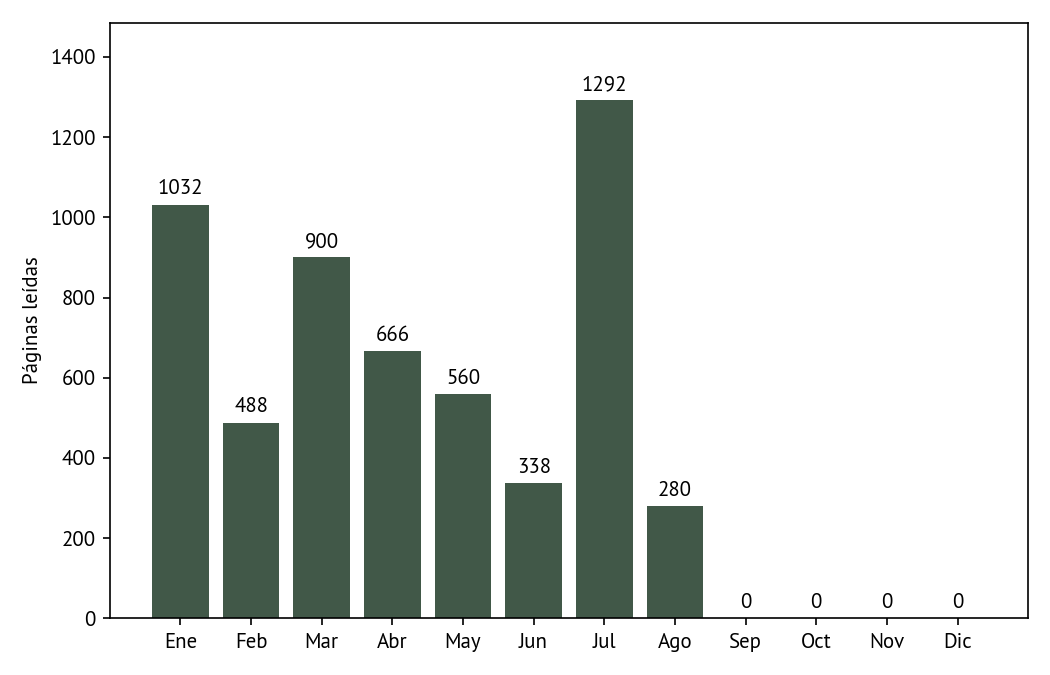
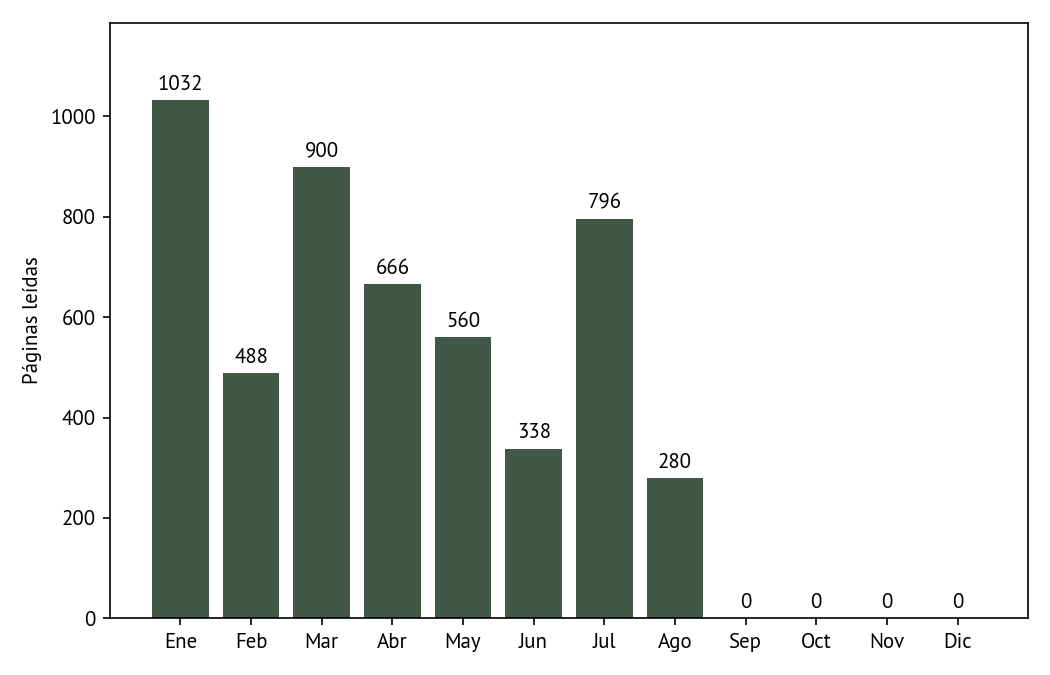
.

diff --git a/content/estadisticas/index.md b/content/estadisticas/index.md
@@ -6,11 +6,11 @@ summary: Estadísticas de lectura por año.
 ## Resumen histórico
 
 <div style="border:1px solid rgba(128,128,128,0.35);border-radius:12px;padding:1.25rem 1.5rem;margin:1rem 0;background:rgba(128,128,128,0.06);">
-<h3 style="margin-top:0;">Libros</h3><div style="display:flex;gap:2.5rem;flex-wrap:wrap;"><div><div style="opacity:0.6;">Total páginas leídas</div><div style="font-size:2rem;font-weight:800;line-height:1.1;">193278</div></div><div><div style="opacity:0.6;">Número de libros</div><div style="font-size:2rem;font-weight:800;line-height:1.1;">650</div></div></div>
+<h3 style="margin-top:0;">Libros</h3><div style="display:flex;gap:2.5rem;flex-wrap:wrap;"><div><div style="opacity:0.6;">Total páginas leídas</div><div style="font-size:2rem;font-weight:800;line-height:1.1;">192782</div></div><div><div style="opacity:0.6;">Número de libros</div><div style="font-size:2rem;font-weight:800;line-height:1.1;">649</div></div></div>
 </div>
 
 <div style="border:1px solid rgba(128,128,128,0.35);border-radius:12px;padding:1.25rem 1.5rem;margin:1rem 0;background:rgba(128,128,128,0.06);">
-<h3 style="margin-top:0;">Cómics/Manga</h3><div style="display:flex;gap:2.5rem;flex-wrap:wrap;"><div><div style="opacity:0.6;">Total páginas leídas</div><div style="font-size:2rem;font-weight:800;line-height:1.1;">53921</div></div><div><div style="opacity:0.6;">Número de cómics/manga</div><div style="font-size:2rem;font-weight:800;line-height:1.1;">264</div></div></div>
+<h3 style="margin-top:0;">Cómics/Manga</h3><div style="display:flex;gap:2.5rem;flex-wrap:wrap;"><div><div style="opacity:0.6;">Total páginas leídas</div><div style="font-size:2rem;font-weight:800;line-height:1.1;">54417</div></div><div><div style="opacity:0.6;">Número de cómics/manga</div><div style="font-size:2rem;font-weight:800;line-height:1.1;">265</div></div></div>
 </div>
 
 <div style="border:1px solid rgba(128,128,128,0.35);border-radius:12px;padding:1.25rem 1.5rem;margin:1rem 0;background:rgba(128,128,128,0.06);">
@@ -56,7 +56,7 @@ summary: Estadísticas de lectura por año.
 </div>
 
 <div style="border:1px solid rgba(128,128,128,0.35);border-radius:12px;padding:1.25rem 1.5rem;margin:1rem 0;background:rgba(128,128,128,0.06);">
-<h3 style="margin-top:0;">Longitud media</h3><div style="display:flex;gap:2.5rem;flex-wrap:wrap;"><div><div style="opacity:0.6;">Libros</div><div style="font-size:2rem;font-weight:800;line-height:1.1;">297</div><div style="font-weight:700;">páginas de media</div></div><div><div style="opacity:0.6;">Cómics/Manga</div><div style="font-size:2rem;font-weight:800;line-height:1.1;">204</div><div style="font-weight:700;">páginas de media</div></div></div>
+<h3 style="margin-top:0;">Longitud media</h3><div style="display:flex;gap:2.5rem;flex-wrap:wrap;"><div><div style="opacity:0.6;">Libros</div><div style="font-size:2rem;font-weight:800;line-height:1.1;">297</div><div style="font-weight:700;">páginas de media</div></div><div><div style="opacity:0.6;">Cómics/Manga</div><div style="font-size:2rem;font-weight:800;line-height:1.1;">205</div><div style="font-weight:700;">páginas de media</div></div></div>
 </div>
 
 <div style="border:1px solid rgba(128,128,128,0.35);border-radius:12px;padding:1.25rem 1.5rem;margin:1rem 0;background:rgba(128,128,128,0.06);">
@@ -78,11 +78,11 @@ summary: Estadísticas de lectura por año.
 ## 2026
 
 <div style="border:1px solid rgba(128,128,128,0.35);border-radius:12px;padding:1.25rem 1.5rem;margin:1rem 0;background:rgba(128,128,128,0.06);">
-<h3 style="margin-top:0;">Libros</h3><div style="display:flex;gap:2.5rem;flex-wrap:wrap;"><div><div style="opacity:0.6;">Total páginas leídas</div><div style="font-size:2rem;font-weight:800;line-height:1.1;">5556</div></div><div><div style="opacity:0.6;">Número de libros</div><div style="font-size:2rem;font-weight:800;line-height:1.1;">20</div></div></div>
+<h3 style="margin-top:0;">Libros</h3><div style="display:flex;gap:2.5rem;flex-wrap:wrap;"><div><div style="opacity:0.6;">Total páginas leídas</div><div style="font-size:2rem;font-weight:800;line-height:1.1;">5060</div></div><div><div style="opacity:0.6;">Número de libros</div><div style="font-size:2rem;font-weight:800;line-height:1.1;">19</div></div></div>
 </div>
 
 <div style="border:1px solid rgba(128,128,128,0.35);border-radius:12px;padding:1.25rem 1.5rem;margin:1rem 0;background:rgba(128,128,128,0.06);">
-<h3 style="margin-top:0;">Cómics/Manga</h3><div style="display:flex;gap:2.5rem;flex-wrap:wrap;"><div><div style="opacity:0.6;">Total páginas leídas</div><div style="font-size:2rem;font-weight:800;line-height:1.1;">17864</div></div><div><div style="opacity:0.6;">Número de cómics/manga</div><div style="font-size:2rem;font-weight:800;line-height:1.1;">111</div></div></div>
+<h3 style="margin-top:0;">Cómics/Manga</h3><div style="display:flex;gap:2.5rem;flex-wrap:wrap;"><div><div style="opacity:0.6;">Total páginas leídas</div><div style="font-size:2rem;font-weight:800;line-height:1.1;">18360</div></div><div><div style="opacity:0.6;">Número de cómics/manga</div><div style="font-size:2rem;font-weight:800;line-height:1.1;">112</div></div></div>
 </div>
 
 <div style="border:1px solid rgba(128,128,128,0.35);border-radius:12px;padding:1.25rem 1.5rem;margin:1rem 0;background:rgba(128,128,128,0.06);">
@@ -132,7 +132,7 @@ summary: Estadísticas de lectura por año.
 </div>
 
 <div style="border:1px solid rgba(128,128,128,0.35);border-radius:12px;padding:1.25rem 1.5rem;margin:1rem 0;background:rgba(128,128,128,0.06);">
-<h3 style="margin-top:0;">Longitud media</h3><div style="display:flex;gap:2.5rem;flex-wrap:wrap;"><div><div style="opacity:0.6;">Libros</div><div style="font-size:2rem;font-weight:800;line-height:1.1;">278</div><div style="font-weight:700;">páginas de media</div></div><div><div style="opacity:0.6;">Cómics/Manga</div><div style="font-size:2rem;font-weight:800;line-height:1.1;">161</div><div style="font-weight:700;">páginas de media</div></div></div>
+<h3 style="margin-top:0;">Longitud media</h3><div style="display:flex;gap:2.5rem;flex-wrap:wrap;"><div><div style="opacity:0.6;">Libros</div><div style="font-size:2rem;font-weight:800;line-height:1.1;">266</div><div style="font-weight:700;">páginas de media</div></div><div><div style="opacity:0.6;">Cómics/Manga</div><div style="font-size:2rem;font-weight:800;line-height:1.1;">164</div><div style="font-weight:700;">páginas de media</div></div></div>
 </div>
 
 <div style="border:1px solid rgba(128,128,128,0.35);border-radius:12px;padding:1.25rem 1.5rem;margin:1rem 0;background:rgba(128,128,128,0.06);">

diff --git a/content/blog/2026-07-07-marvel-omnibus-daredevil-de-ed-brubaker-y-michael-lark-2-ed-brubaker/index.md b/content/blog/2026-07-07-marvel-omnibus-daredevil-de-ed-brubaker-y-michael-lark-2-ed-brubaker/index.md
@@ -7,7 +7,8 @@ authors:
 - roof77
 tags:
 - Lecturas
-- Libros
+- Comics
+- Comics
 toc: false
 autores:
 - Ed Brubaker
@@ -36,6 +37,7 @@ El formidable equipo creativo formado por Ed Brubaker, el hombre que mató al Ca
 - **Idioma:** Spanish; Castilian
 - **ISBN:** 8410497824 / 9788410497825
 - **Publicación original:** 2026-02-01
+- **Géneros:** [Comics](/tags/comics/)
 - **Ficha en Goodreads:** [Marvel Omnibus. Daredevil de Ed Brubaker y Michael Lark 2](https://www.goodreads.com/book/show/249850858-marvel-omnibus-daredevil-de-ed-brubaker-y-michael-lark-2)
 
 ## Mi lectura
